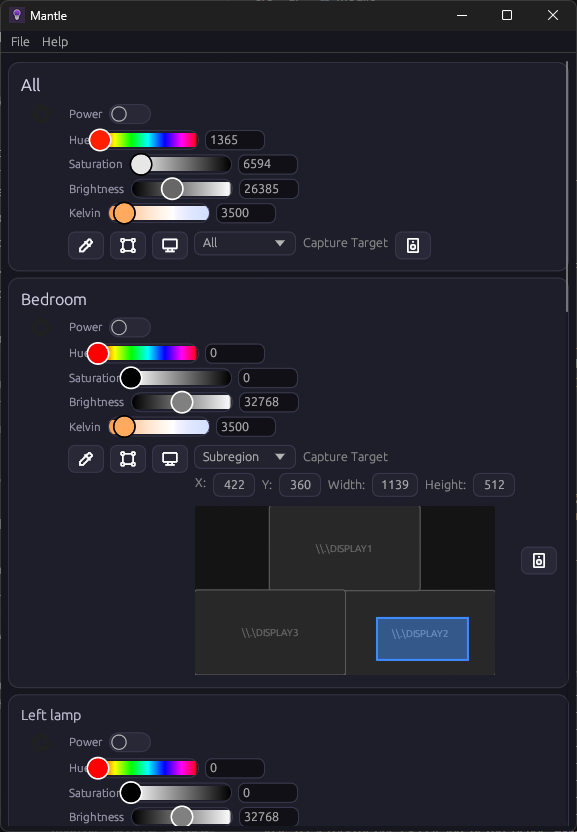
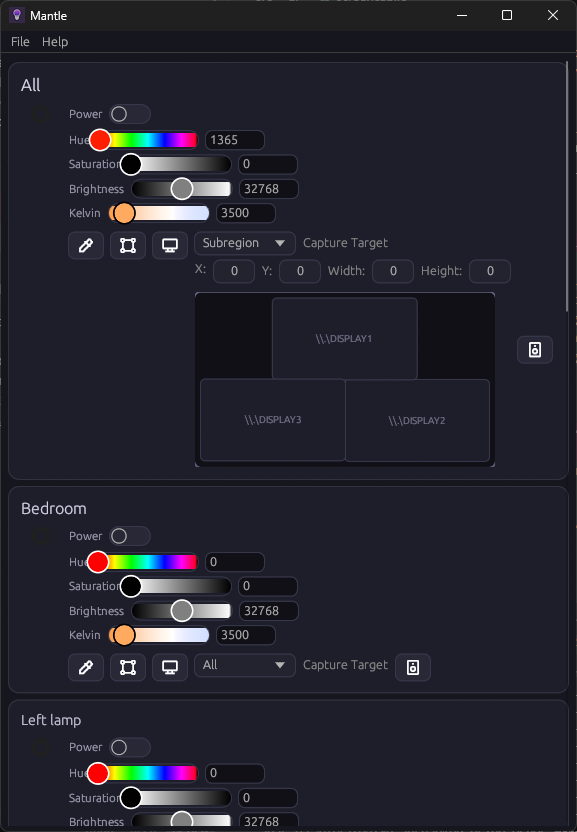
Refactor subregion preview rendering in UI to improve layout and aesthetics. Adjust padding, colors, and dimensions for better visual clarity. Update screenshot asset.

diff --git a/src/ui/screencap.rs b/src/ui/screencap.rs
@@ -298,14 +298,27 @@ fn render_subregion_preview(
         return;
     }
 
-    let preview_width = ui.available_width().min(300.0);
+    let pad = 6.0;
+    let preview_width = ui.available_width().min(300.0) - pad * 2.0;
     let scale = preview_width / total_width;
     let preview_height = total_height * scale;
+    let outer_width = preview_width + pad * 2.0;
+    let outer_height = preview_height + pad * 2.0;
 
     ui.add_space(4.0);
     let (response, painter) =
-        ui.allocate_painter(vec2(preview_width, preview_height), Sense::click_and_drag());
-    let origin = response.rect.min;
+        ui.allocate_painter(vec2(outer_width, outer_height), Sense::click_and_drag());
+
+    let outer_rect = response.rect;
+    let inner_rect = outer_rect.shrink(pad);
+    let origin = inner_rect.min;
+
+    painter.rect(
+        outer_rect,
+        6.0,
+        Color32::from_rgb(16, 16, 22),
+        Stroke::new(1.5, Color32::from_rgb(100, 100, 130)),
+    );
 
     let preview_to_global = |pos: Pos2| -> (i32, i32) {
         (
@@ -313,8 +326,6 @@ fn render_subregion_preview(
             ((pos.y - origin.y) / scale) as i32 + y_min,
         )
     };
-
-    painter.rect_filled(response.rect, 2.0, Color32::from_gray(20));
 
     for monitor in monitors {
         let mon_rect = egui::Rect::from_min_size(
@@ -329,16 +340,16 @@ fn render_subregion_preview(
         );
         painter.rect(
             mon_rect,
-            2.0,
-            Color32::from_gray(40),
-            Stroke::new(1.0, Color32::from_gray(90)),
+            4.0,
+            Color32::from_rgb(30, 30, 42),
+            Stroke::new(1.0, Color32::from_rgb(55, 55, 75)),
         );
         painter.text(
             mon_rect.center(),
             egui::Align2::CENTER_CENTER,
             monitor.name(),
             egui::FontId::proportional(10.0),
-            Color32::from_gray(110),
+            Color32::from_rgb(120, 120, 145),
         );
     }
 
@@ -401,9 +412,9 @@ fn render_subregion_preview(
         );
         painter.rect(
             sub_rect,
-            0.0,
-            Color32::from_rgba_unmultiplied(60, 140, 255, 35),
-            Stroke::new(2.0, Color32::from_rgb(60, 140, 255)),
+            2.0,
+            Color32::from_rgba_unmultiplied(180, 120, 30, 35),
+            Stroke::new(2.0, Color32::from_rgb(220, 160, 50)),
         );
     }
 
